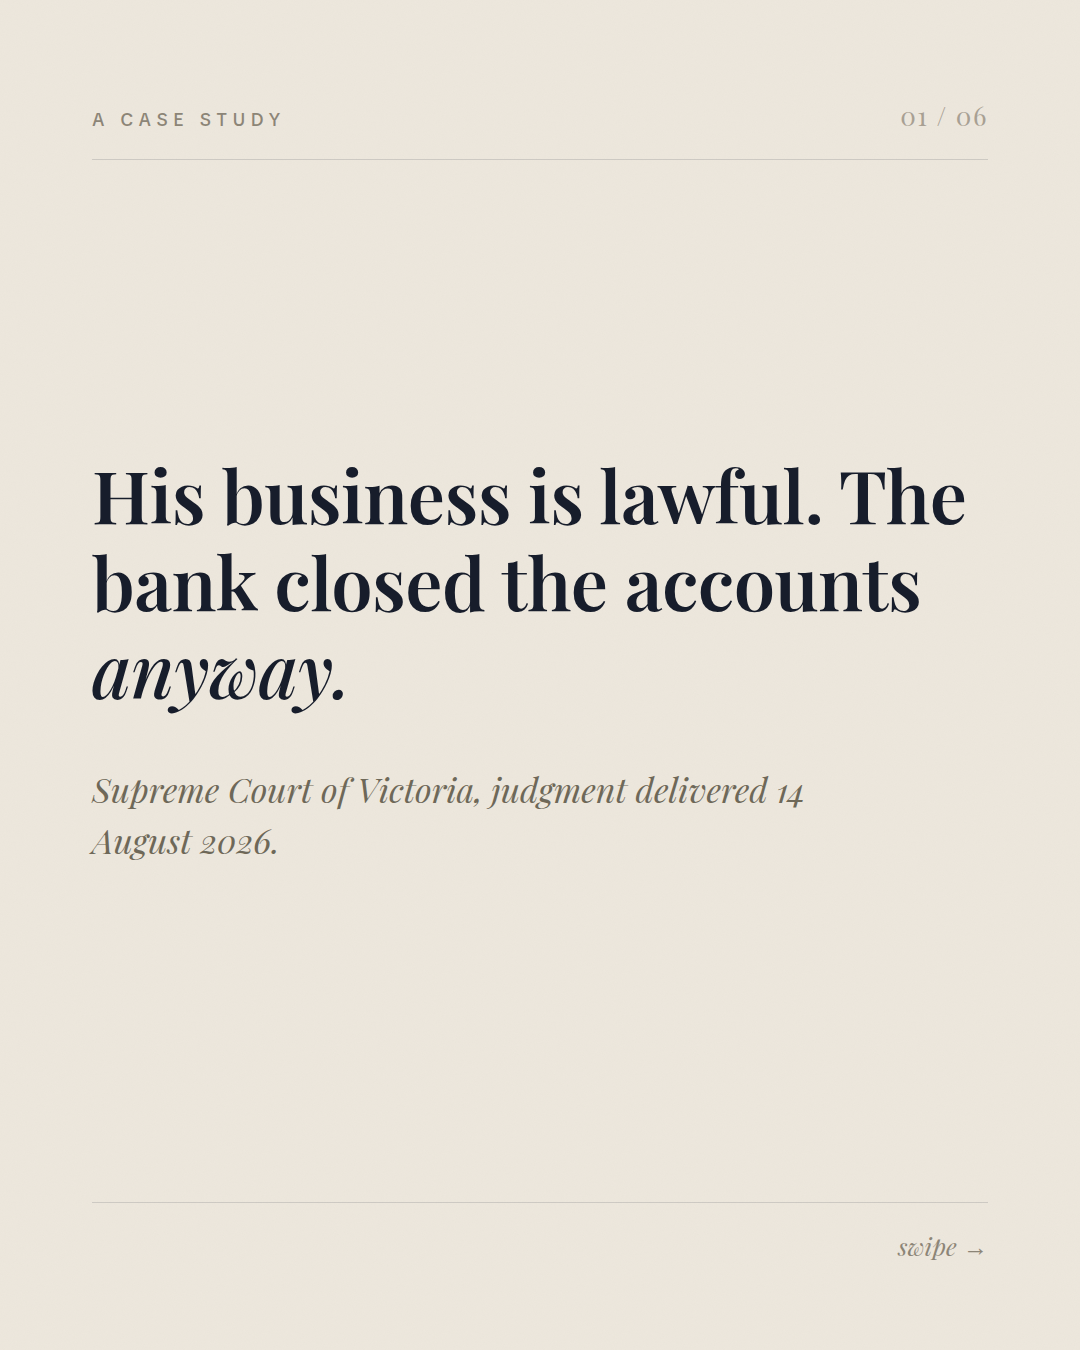
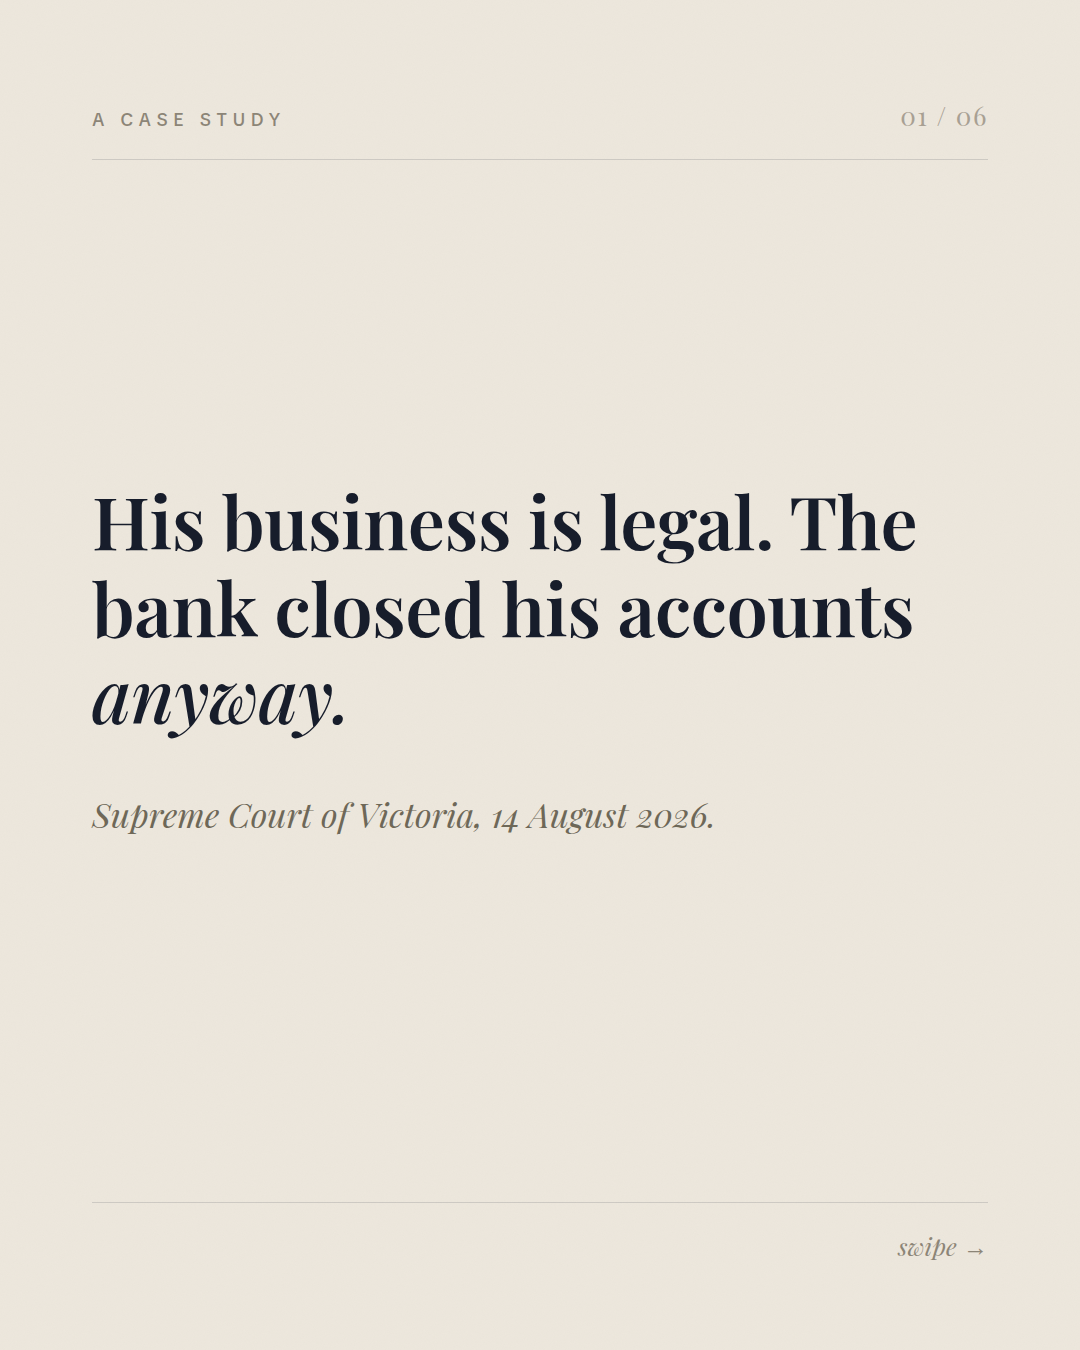
Simplify Puleo slides and correct two errors found on re-check
- slide 5 was reporting the Bank's submissions at [351] to [354] as the
  Court's findings on legitimate interests; replaced with what the Court
  actually found at [373]
- a draft line had the plaintiffs banking with Bendigo since 2001; the
  judgment dates the business to 2001 and the accounts to around May 2024
- all six slides rewritten in plain language
- kit records the correct construction of the termination term at [360],
  which is a subjective test, not an objective one

Claude-Session: https://claude.ai/code/session_01JRjeUUcoRT5GxuTf3inkfN

Changed region(s): [[0.0611, 0.3422, 0.8861, 0.6533]]

diff --git a/tools/carousel/debank.py b/tools/carousel/debank.py
@@ -93,39 +93,38 @@ def slide(n, kicker, inner, cite="", dark=False, swipe=False):
     (OUT / f"d{n:02d}.html").write_text(html)
 
 slide(1, "A Case Study",
-  '<div class="statement lg">His business is lawful. The bank closed the accounts <em>anyway.</em></div>'
-  '<div class="sub">Supreme Court of Victoria, judgment delivered 14 August 2026.</div>',
+  '<div class="statement lg">His business is legal. The bank closed his accounts <em>anyway.</em></div>'
+  '<div class="sub">Supreme Court of Victoria, 14 August 2026.</div>',
   swipe=True)
 
-slide(2, "The Facts",
-  '<div class="statement md">Gotham City, South Melbourne.</div>'
-  '<div class="body"><p>Franco Puleo and his two companies have operated a lawful brothel there <b>since 2001.</b></p>'
-  '<p>Bendigo and Adelaide Bank closed the business accounts and his personal accounts. The judgment calls it the <b>Exit Decision.</b></p></div>',
+slide(2, "What Happened",
+  '<div class="statement md">A brothel in South Melbourne, running since 2001.</div>'
+  '<div class="body"><p>It is a lawful business. Bendigo and Adelaide Bank closed the company accounts <b>and the owner&rsquo;s personal accounts.</b></p>'
+  '<p>The judgment calls that the Exit Decision.</p></div>',
   cite=C)
 
 slide(3, "The Claim",
-  '<div class="statement md">Four causes of action, in one proceeding.</div>'
-  '<div class="body"><p>Discrimination under the <b>Equal Opportunity Act.</b> Breach of the account terms. An unfair contract term under the <b>ASIC Act.</b> And a failure to act efficiently, honestly and fairly under <b>s 912A</b> of the Corporations Act.</p></div>',
+  '<div class="statement md">He sued the bank <em>four</em> different ways.</div>'
+  '<div class="body"><p>That closing the accounts was discrimination. That it broke the account terms. That the clause letting the bank close them was unfair. And that the bank failed to act <b>efficiently, honestly and fairly.</b></p></div>',
   cite=C)
 
 slide(4, "The Distinction",
-  '<div class="statement md">The trade got him <em>screened.</em> It did not get him <em>closed.</em></div>'
-  '<div class="body"><p>The Court accepted his attributes were a reason of substance for the enhanced due diligence being run on the accounts.</p>'
-  '<p>It found they were <b>not</b> a reason of substance for the decision to close them.</p></div>'
-  '<div class="learn">Learn this: causation is tested at the decision you are challenging, not at the step that led to it.</div>',
+  '<div class="statement md">His industry is why the bank <em>checked</em> him. It is not why the bank <em>closed</em> him.</div>'
+  '<div class="body"><p>The Court agreed his industry was a real reason the bank ran extra checks on the accounts.</p>'
+  '<p>It found it was <b>not</b> a real reason for the decision to close them.</p></div>'
+  '<div class="learn">Learn this: causation is tested at the decision you are challenging, not at the step before it.</div>',
   cite=C)
 
-slide(5, "The Ruling",
-  '<div class="statement md">All four claims dismissed.</div>'
-  '<div class="body"><p>The closure was made on money laundering risk: unusual transactions, a cash intensive business, and large cash withdrawals feeding private ATMs.</p>'
-  '<p>Managing that risk was a <b>legitimate interest</b> the bank was entitled to protect.</p></div>'
-  '<div class="learn">Learn this: a contractual power to act on a risk does not require proof the risk crystallised.</div>',
+slide(5, "The Reason",
+  '<div class="statement md">The accounts were closed over <em>cash.</em></div>'
+  '<div class="body"><p>The Court found the bank acted on money laundering risk: unusual transactions, a cash heavy business, and big cash withdrawals used to fill private ATMs.</p></div>'
+  '<div class="learn">Learn this: the bank did not have to prove money laundering happened. The risk of it was enough.</div>',
   cite=C)
 
-slide(6, "Why It Matters",
-  '<div class="statement md">Debanking is now a <em>litigated</em> subject.</div>'
-  '<div class="body"><p>Equal opportunity, contract, unfair terms and financial services obligations, argued together over one bank decision.</p>'
-  '<p>If you are studying any of the four, this is the case that shows you how they interact.</p></div>',
+slide(6, "The Result",
+  '<div class="statement md">All four claims <em>failed.</em></div>'
+  '<div class="body"><p>One decision, attacked four ways, and none of them landed.</p>'
+  '<p>If you are studying discrimination, contract, unfair terms or financial services law, this is how they fit together.</p></div>',
   dark=True, cite="Summary only. Read the judgment before relying on it. General information only, not legal advice.")
 
 print("ok")

diff --git a/reports/assets/2026-08-14/POSTING-KIT.md b/reports/assets/2026-08-14/POSTING-KIT.md
@@ -24,7 +24,7 @@ Being in the brothel trade was accepted as a reason of substance for the bank ru
 
 That gap between the screening and the exit is where the case was won and lost.
 
-The Court also held that managing money laundering risk was a legitimate interest the bank was entitled to protect under the termination clause, and that the clause did not require the bank to prove that money laundering had actually occurred. It was enough that the bank formed the view, on reasonable grounds, that closing the accounts was reasonably necessary to manage the risk.
+The Court also rejected the argument that the bank had to identify actual money laundering before it could close the accounts. A suspicion that there might be such activity was enough. Her Honour held that the words "we consider it necessary to protect our legitimate interests" in the termination clause set a subjective test: the bank had to form the view that closure was necessary, and it was no part of that clause that closure be objectively necessary as a matter of fact.
 
 Liability was heard separately, so relief never arose. The Court's preliminary view on costs is that they follow the event.
 
@@ -54,7 +54,7 @@ Three points are worth drawing out.
 
 First, causation. Her Honour accepted that the plaintiffs' attributes were a reason of substance for the bank conducting enhanced customer due diligence, because the industry designation as prescribed high risk is what triggered that process. She held they were not a reason of substance for the exit decision itself, which was made on transaction analysis: unusual activity, the cash intensive nature of the business, and large cash withdrawals used to stock private ATMs. Where a protected attribute sits upstream of the decision under challenge, the analysis has to be run at the decision, not at the trigger.
 
-Second, legitimate interests. The termination clause permitted closure where the bank considered it necessary to protect its legitimate interests. Managing money laundering and terrorism financing risk plainly qualified. The clause did not require the bank to identify transactions that actually involved such activity; it was enough that the bank formed the view on reasonable grounds that closure was reasonably necessary to manage the risk, having regard to its obligations under the AML/CTF Act.
+Second, the construction of the termination clause. Her Honour held at [360] that the words "we consider it necessary to protect our legitimate interests" impose a subjective test: the bank must have formed the view that closure was necessary to protect its legitimate interests, and it is no part of that term that closure be reasonably necessary as a matter of fact, objectively ascertained. Separately, at [373], she rejected the contention that actual ML/TF transactions had to be identified before the accounts could be closed; a suspicion that there may be such activity sufficed, having regard to the bank's obligations under ss 36 and 85 of the AML/CTF Act.
 
 Third, the industry designation survived scrutiny. The evidence was that classifying brothels and sex work agencies as prescribed high risk reflected a limited rather than absent risk appetite, consistent with AUSTRAC guidance and the cash intensive character of the sector, and that the bank continued to bank such customers who sat within its risk appetite.
 
@@ -79,7 +79,7 @@ He sued on four grounds. Discrimination, breach of contract, unfair contract ter
 All four failed. And here is why.
 
 **[0:22]**
-His trade was a reason the bank screened him. It was not a reason the bank closed him. That was money laundering risk, cash, and the ATM withdrawals.
+His industry was a reason the bank checked him. It was not a reason the bank closed him. That was money laundering risk, cash, and the ATM withdrawals.
 
 **[0:29]**
 Puleo, 2026, VSC 513.
@@ -99,10 +99,19 @@ Built directly from the judgment text, so the confidence level here is higher th
 | Attributes were a reason of substance for ECDD being conducted | [258] |
 | Attributes were **not** a reason of substance for the Exit Decision | [264], [466(b)] |
 | Exit Decision made on money laundering risk: unusual transactions, cash intensive business, large cash withdrawals for private ATMs | [263], [325] |
-| Managing ML/TF risk is a legitimate interest; no need to prove actual ML/TF, only reasonable grounds that closure was reasonably necessary | [352], [373] |
+| Termination clause imposes a **subjective** test: the bank must have formed the view that closure was necessary; not an objective necessity requirement | [360] |
+| Actual ML/TF transactions did not have to be identified; a suspicion that there may be such activity was enough | [373] |
+| Unfair terms claim rejected | [424] to [425] |
 | All four causes failed, claims dismissed | [467] to [468] |
 | Relief did not arise, liability heard separately | [469] |
 | Costs: preliminary view that costs follow the event, subject to hearing the parties | [470] |
+
+### Corrections made on the third check
+
+Two errors were caught before this went out, both in the first draft of the slides.
+
+1. **A submission was being reported as a finding.** The first version of slide 5 said managing money laundering risk "was a legitimate interest the bank was entitled to protect". That language comes from paragraphs [351] to [354], which record the **Bank's submissions**, not the Court's conclusions. Removed. The slide now states only what the Court itself found.
+2. **A date error in the facts.** A draft line had the plaintiffs banking with Bendigo since 2001. The judgment says the **brothel** has operated since 2001 [1]; the accounts in question have been held since around 24 May 2024 [2]. The slide now says only that the business has run since 2001.
 
 **Not stated anywhere, deliberately:** anything about whether the outcome is right, any characterisation of the plaintiffs beyond what the judgment says, and any suggestion the bank's industry designation was or was not discriminatory in the abstract. The post reports the decision.
 
